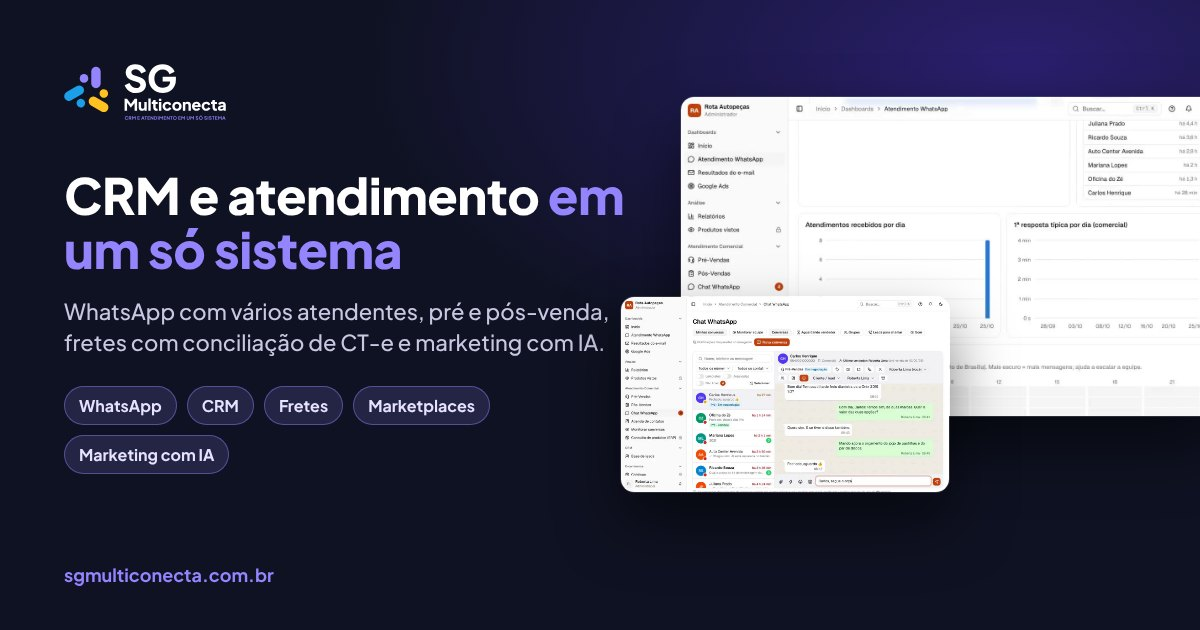
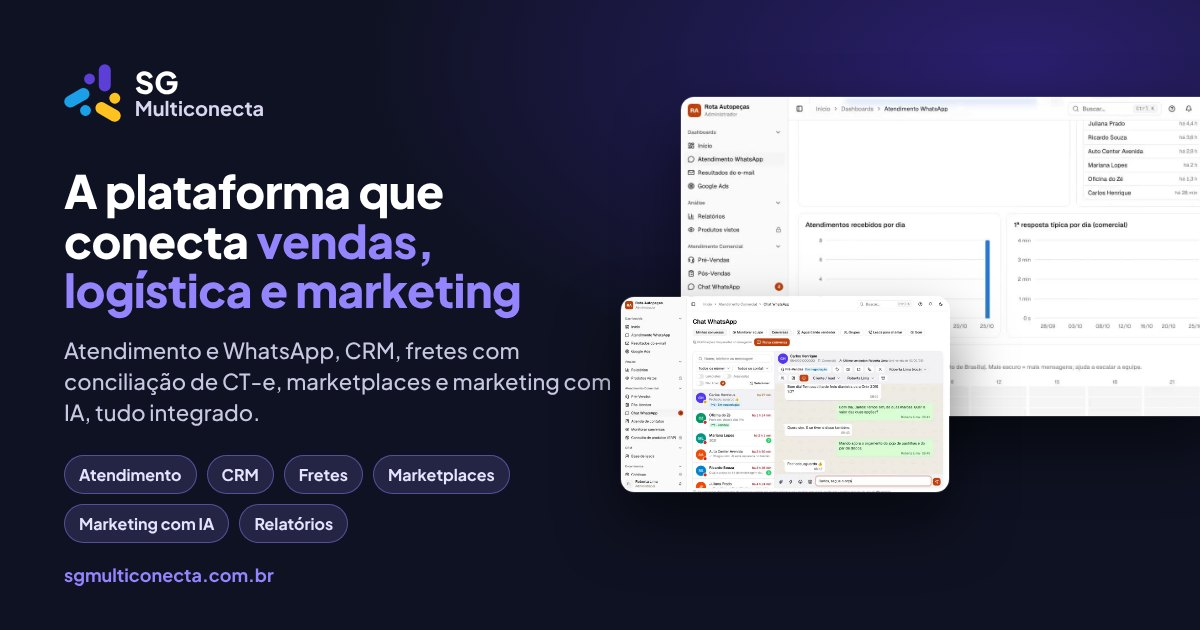
wip: site com a frase nova (a plataforma que conecta vendas, logística e marketing) e a imagem de prévia
Claude-Session: https://claude.ai/code/session_014547CKKcJmqXTNuGbDJEHf

Changed region(s): [[0.0308, 0.2714, 0.5242, 0.8746], [0.0308, 0.0905, 0.2158, 0.2111]]

diff --git a/apps/site/index.html b/apps/site/index.html
@@ -3,7 +3,7 @@
   <head>
     <meta charset="utf-8" />
     <meta name="viewport" content="width=device-width, initial-scale=1" />
-    <title>SG Multiconecta · CRM e atendimento em um só sistema</title>
+    <title>SG Multiconecta · A plataforma que conecta vendas, logística e marketing</title>
     <meta name="description" content="WhatsApp com vários atendentes, CRM de pré e pós-vendas, gestão de fretes com conciliação de CT-e, marketplaces com IA, painéis de Meta, Google e TikTok Ads, e-mail marketing e postagens com IA em um só sistema." />
     <link rel="canonical" href="https://sgmulticonecta.com.br/" />
     <!-- Prévia do link no WhatsApp, Facebook, LinkedIn e Instagram: endereços completos (https), imagem 1200x630. -->
@@ -11,17 +11,17 @@
     <meta property="og:site_name" content="SG Multiconecta" />
     <meta property="og:locale" content="pt_BR" />
     <meta property="og:url" content="https://sgmulticonecta.com.br/" />
-    <meta property="og:title" content="SG Multiconecta · CRM e atendimento em um só sistema" />
-    <meta property="og:description" content="WhatsApp com vários atendentes, CRM de pré e pós-venda, gestão de fretes com conciliação de CT-e e marketing com IA em um só sistema." />
+    <meta property="og:title" content="SG Multiconecta · A plataforma que conecta vendas, logística e marketing" />
+    <meta property="og:description" content="Atendimento e WhatsApp com vários atendentes, CRM de pré e pós-venda, gestão de fretes com conciliação de CT-e, marketplaces, marketing com IA e relatórios, tudo integrado em uma só plataforma." />
     <meta property="og:image" content="https://sgmulticonecta.com.br/img/compartilhar.jpg" />
     <meta property="og:image:secure_url" content="https://sgmulticonecta.com.br/img/compartilhar.jpg" />
     <meta property="og:image:type" content="image/jpeg" />
     <meta property="og:image:width" content="1200" />
     <meta property="og:image:height" content="630" />
-    <meta property="og:image:alt" content="SG Multiconecta: CRM e atendimento em um só sistema" />
+    <meta property="og:image:alt" content="SG Multiconecta: a plataforma que conecta vendas, logística e marketing" />
     <meta name="twitter:card" content="summary_large_image" />
-    <meta name="twitter:title" content="SG Multiconecta · CRM e atendimento em um só sistema" />
-    <meta name="twitter:description" content="WhatsApp, CRM, fretes e marketing com IA em um só sistema." />
+    <meta name="twitter:title" content="SG Multiconecta · A plataforma que conecta vendas, logística e marketing" />
+    <meta name="twitter:description" content="Atendimento, CRM, fretes, marketplaces e marketing com IA, tudo integrado." />
     <meta name="twitter:image" content="https://sgmulticonecta.com.br/img/compartilhar.jpg" />
     <meta name="theme-color" content="#0F1222" />
     <link rel="icon" type="image/svg+xml" href="/img/favicon.svg" />
@@ -56,7 +56,7 @@
       <section class="hero">
         <div class="wrap hero-in">
           <div class="hero-texto">
-            <p class="selo">CRM e atendimento em um só sistema</p>
+            <p class="selo">Vendas, logística e marketing conectados</p>
             <h1>WhatsApp, CRM e marketing da sua empresa em um só lugar.</h1>
             <p class="lead">Vários atendentes no mesmo número de WhatsApp, funil de pré e pós-vendas, gestão de fretes com conciliação de CT-e, captura de leads, e-mail marketing e postagens no Instagram e no Facebook com inteligência artificial.</p>
             <div class="hero-cta">
